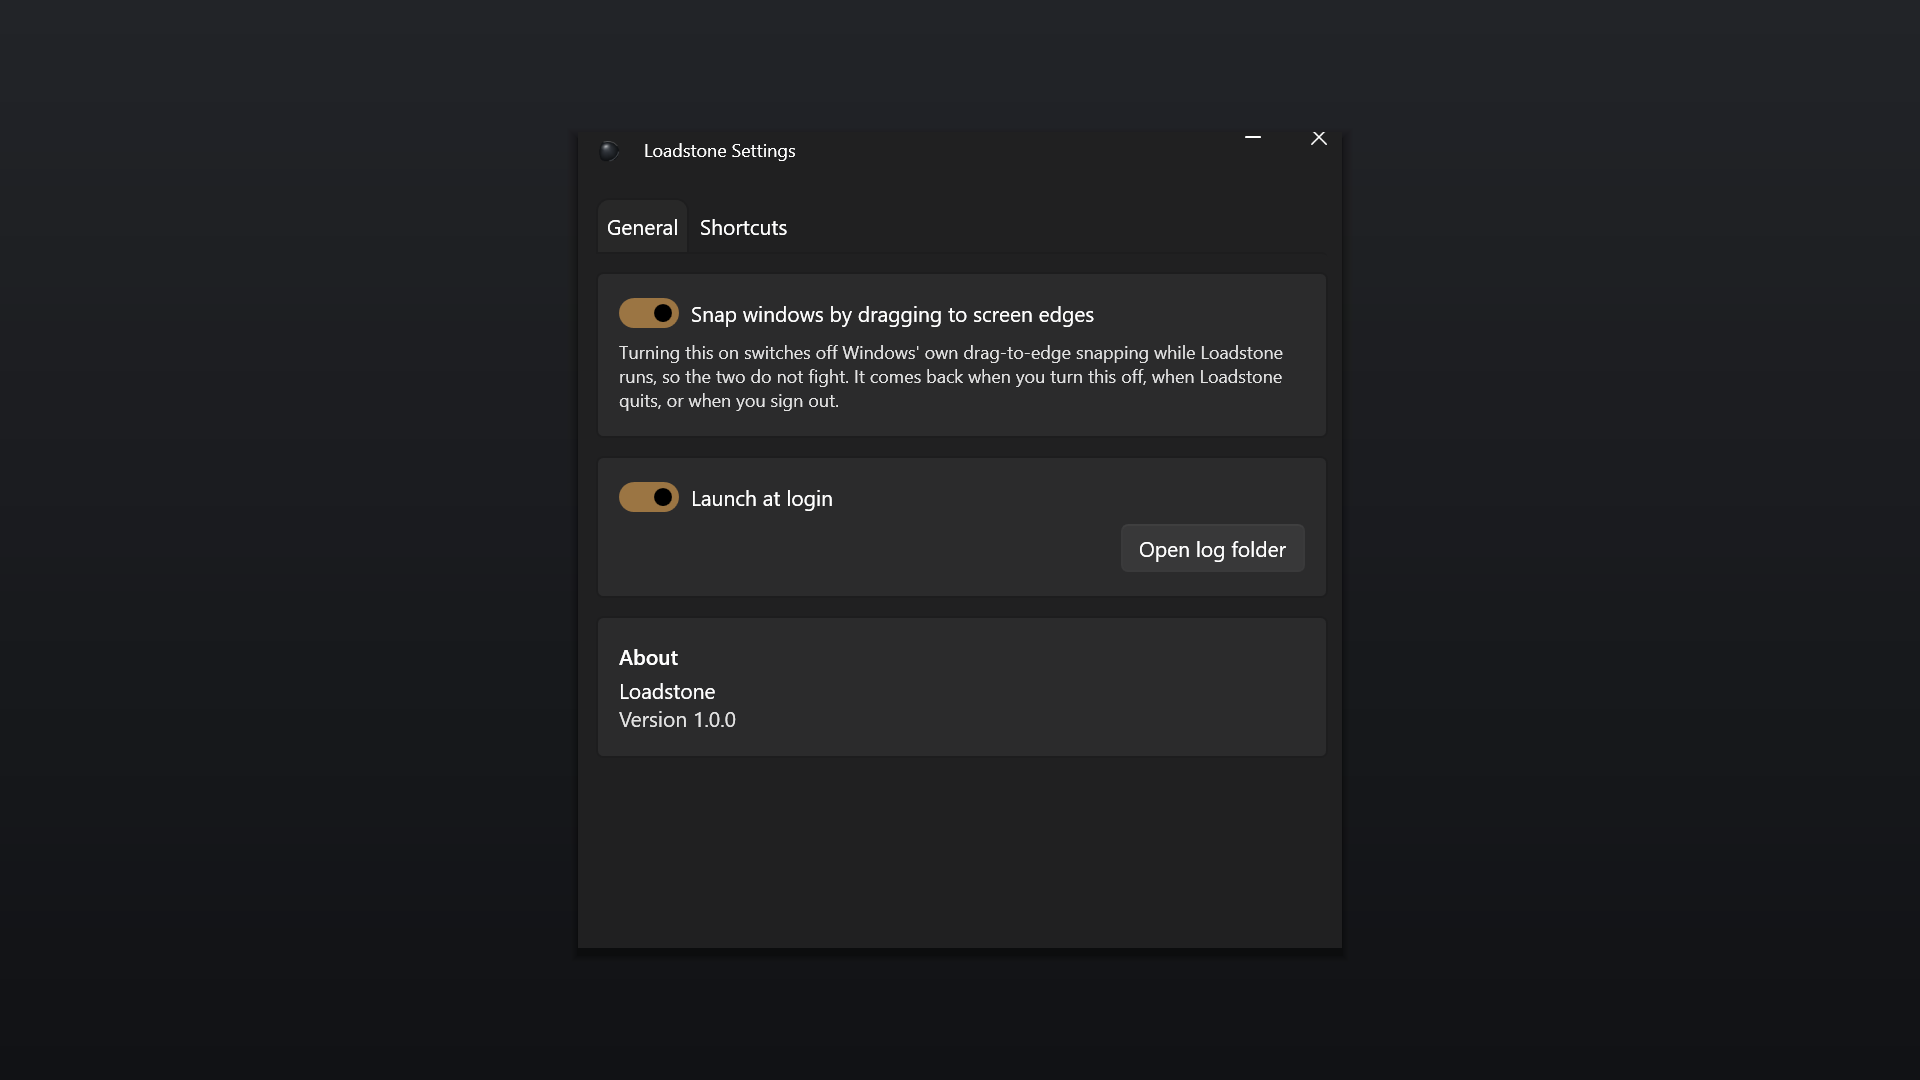
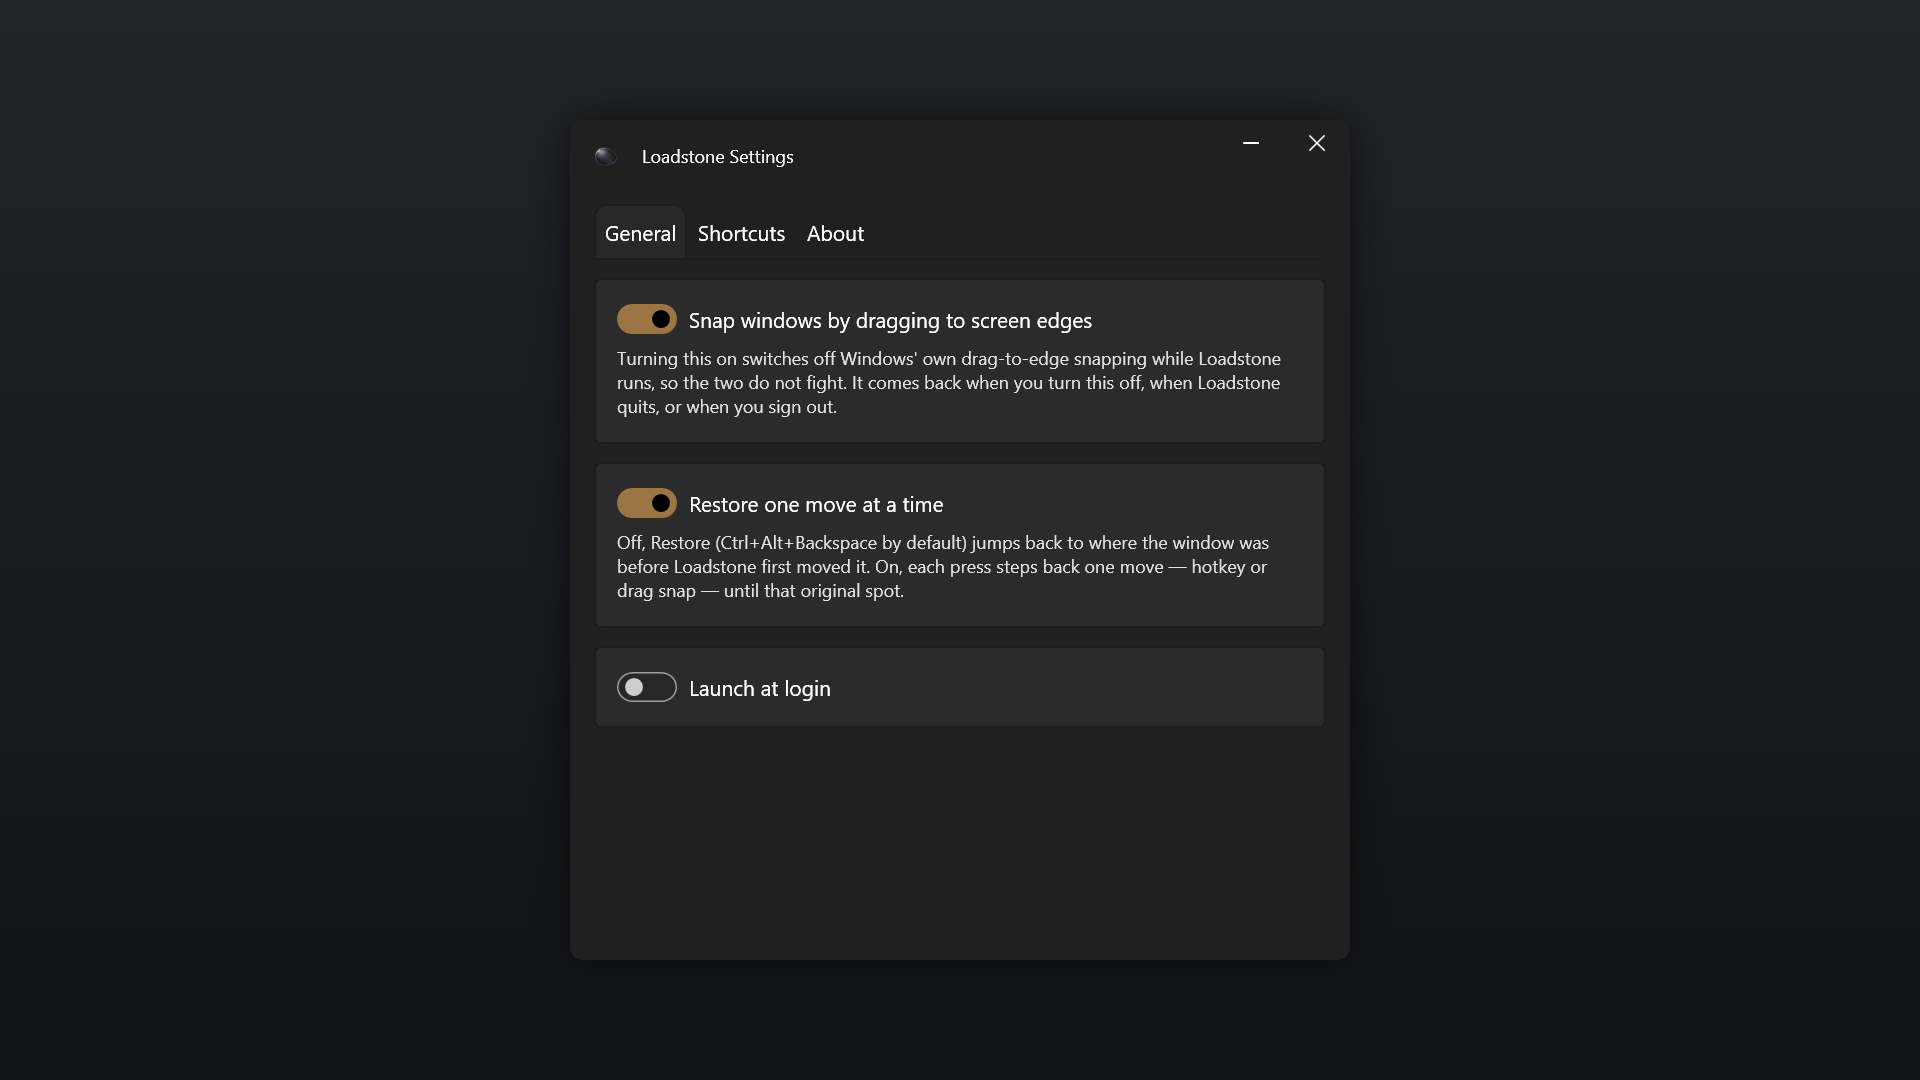
Bring the docs and Store screenshots up to the About tab
Open log folder moved from General to About, and the README and the
beta-testing guide still sent readers to the old place. The README's
feature list now mentions the About tab, its "How it works" says what the
splash does and does not do, and the beta guide tells testers the version
on that tab copies itself.

The two Store screenshots showed the old About card and a two-tab strip.
Both are retaken from the running app at 150 percent scaling, with a
third for the About tab, and the runbook says how they were taken.

diff --git a/README.md b/README.md
@@ -34,6 +34,7 @@ Loadstone sits in the tray and stays out of the way. When you need two documents
 - **Multi-display** — press left or right half again and the window carries on into the display beside it, one half at a time. Or send a window to the next or previous display, walking displays left to right as they sit on the desk: the window keeps the place and the proportion of the work area it had, so a half stays a half. That mapping is by pixel size, not DPI: on a display with the same pixel dimensions but heavier scaling, the window keeps its pixel size and so looks physically smaller
 - **Custom shortcuts** — Magnet-style defaults, all editable, with a warning when a chord is taken by another app or types a character on your keyboard layout
 - **Launch at login** — optional, from Settings
+- **Try it in Settings → About** — a desktop in miniature: click the stone to press each shortcut in turn and watch a window take the tile, or drag a window to an edge or a corner to see where it snaps. The same tab has the version (click it to copy) and the log folder
 
 Drag snapping is off until you turn it on in Settings, because turning it on is what lets Loadstone switch off Windows' own drag-to-edge snapping while it runs, so the two don't fight; switching drag snapping back off, quitting, or signing out puts Windows' setting back. If Loadstone is killed before it can put the setting back, the next launch notices and restores it. The two flags it changes are the drag-to-edge ones, so Win+Arrow and Snap Layouts should be unaffected — but only drag drops were tried when this was measured, so neither is verified.
 
@@ -134,7 +135,7 @@ Tray → Loadstone → **Loadstone Help** opens <https://brudvik.com/loadstone/w
 
 **Launch at login is on but Loadstone does not start.** Task Manager → Startup apps may have it disabled; Settings shows "Disabled in Task Manager" with a button to open that page.
 
-**Reading the log.** Loadstone writes daily logs to `%LOCALAPPDATA%\Loadstone\Logs`, the same path whether run from source or installed from the Store — the package does not redirect file-system writes, only the registry. Settings → General → **Open log folder** opens it directly, which is worth using anyway: it resolves the path for you rather than making you type it. The startup summary lists the effective binding and status of every shortcut.
+**Reading the log.** Loadstone writes daily logs to `%LOCALAPPDATA%\Loadstone\Logs`, the same path whether run from source or installed from the Store — the package does not redirect file-system writes, only the registry. Settings → About → **Open log folder** opens it directly, which is worth using anyway: it resolves the path for you rather than making you type it. The startup summary lists the effective binding and status of every shortcut.
 
 ## Build and test
 
@@ -143,7 +144,7 @@ dotnet build Loadstone.slnx                                   # warnings are err
 dotnet test --solution Loadstone.slnx                         # every test project
 dotnet test --project tests/Loadstone.Core.Tests/Loadstone.Core.Tests.csproj
 dotnet test --project tests/Loadstone.UI.Tests/Loadstone.UI.Tests.csproj --filter-query "/*/*/Win32WindowTests/*"
-& 'C:\Program Files\PowerShell\7\pwsh.exe' -File tools/icons/generate.ps1   # regenerate the .ico assets
+& 'C:\Program Files\PowerShell\7\pwsh.exe' -File tools/icons/generate.ps1   # regenerate the .ico and Store image assets
 ```
 
 `global.json` opts the repo into the Microsoft.Testing.Platform runner (xunit.v3), so a positional `dotnet test Loadstone.slnx` and `--logger` do not apply; use `--solution`/`--project` and `--report-trx`. Filtering still works: `--filter` takes VSTest syntax, and xunit.v3 adds `--filter-class`, `--filter-method`, `--filter-namespace`, `--filter-trait` and their `--filter-not-*` variants. Use one family per run — `--filter` cannot be combined with `--filter-query` or the simple filters.
@@ -159,6 +160,8 @@ Loadstone is a tray-only WPF app. Shortcuts and drag gestures go to a small wind
 5. Reports what the window answered: a refused write makes Loadstone beep and log
 
 Drag snapping listens to Windows' own move-loop events instead of the mouse, so a text selection or a slider dragged to a screen edge is left alone, and the snap is applied after Windows has finished the drop.
+
+The splash at startup runs on a thread of its own, so it moves while the rest of the app is still starting, and it never takes the keyboard: a shortcut pressed while it is up reaches the window in front. Click it to dismiss it.
 
 ## Name
 

diff --git a/docs/store-submission-runbook.md b/docs/store-submission-runbook.md
@@ -41,7 +41,7 @@ These block a submission and none of them is Partner Center work:
 | Missing | Why it blocks | What it needs |
 | --- | --- | --- |
 | ~~Privacy policy URL~~ **done** | Store policy 10.5.1 makes one mandatory regardless of what is collected | <https://mortenbrudvik.github.io/loadstone-site/privacy/> — served from the public `mortenbrudvik/loadstone-site` repo, since this one is private |
-| ~~At least one screenshot~~ **done** | Every listing requires one | `docs/store/screenshots/01-general.png` and `02-shortcuts.png`, 1920×1080 PNG. Captured from the real app at 150% scaling. Note the window uses a Mica backdrop, so its tint carries a trace of the desktop wallpaper behind it — recapture over a plain wallpaper if a neutral tint is wanted |
+| ~~At least one screenshot~~ **done** | Every listing requires one | `docs/store/screenshots/01-general.png`, `02-shortcuts.png` and `03-about.png`, 1920×1080 PNG. Retaken 2026-11-13, when About became a tab of its own, from the running app at 150% scaling: UI Automation selected each tab and pressed the stone twice for the About one, `PrintWindow` read the window, and the result was set on a plain gradient. Read that way the window has no Mica tint, so nothing of the desktop wallpaper shows through. `01-general.png` shows whatever the settings were on the machine it was taken on |
 | ~~Identity values~~ **done** | See above | Reserved 2026-09-09; package rebuilt and verified |
 
 ## What to do in Partner Center

diff --git a/docs/beta-testing.md b/docs/beta-testing.md
@@ -54,13 +54,14 @@ Running an *older* Setup over a newer install is refused, with a message saying 
 Send back both of these:
 
 - The app log: press <kbd>Win</kbd>+<kbd>R</kbd>, paste `%LOCALAPPDATA%\Loadstone\Logs` and press
-  Enter. Take the newest file. (Settings has an **Open log folder** button that goes to the same
-  place.)
+  Enter. Take the newest file. (Settings → About has an **Open log folder** button that goes to the
+  same place.)
 - The installer log, if the problem was during install: press <kbd>Win</kbd>+<kbd>R</kbd>, paste
   `%TEMP%` and press Enter, and take the newest `Setup Log*.txt`.
 
-Please say which build you were running — search the app log for the line containing `launched:`,
-which names the version and the folder it started from.
+Please say which build you were running. Settings → About shows the version, and a click on it
+copies it. The app log says more: search it for the line containing `launched:`, which names the
+version and the folder it started from.
 
 ## Uninstalling
 
